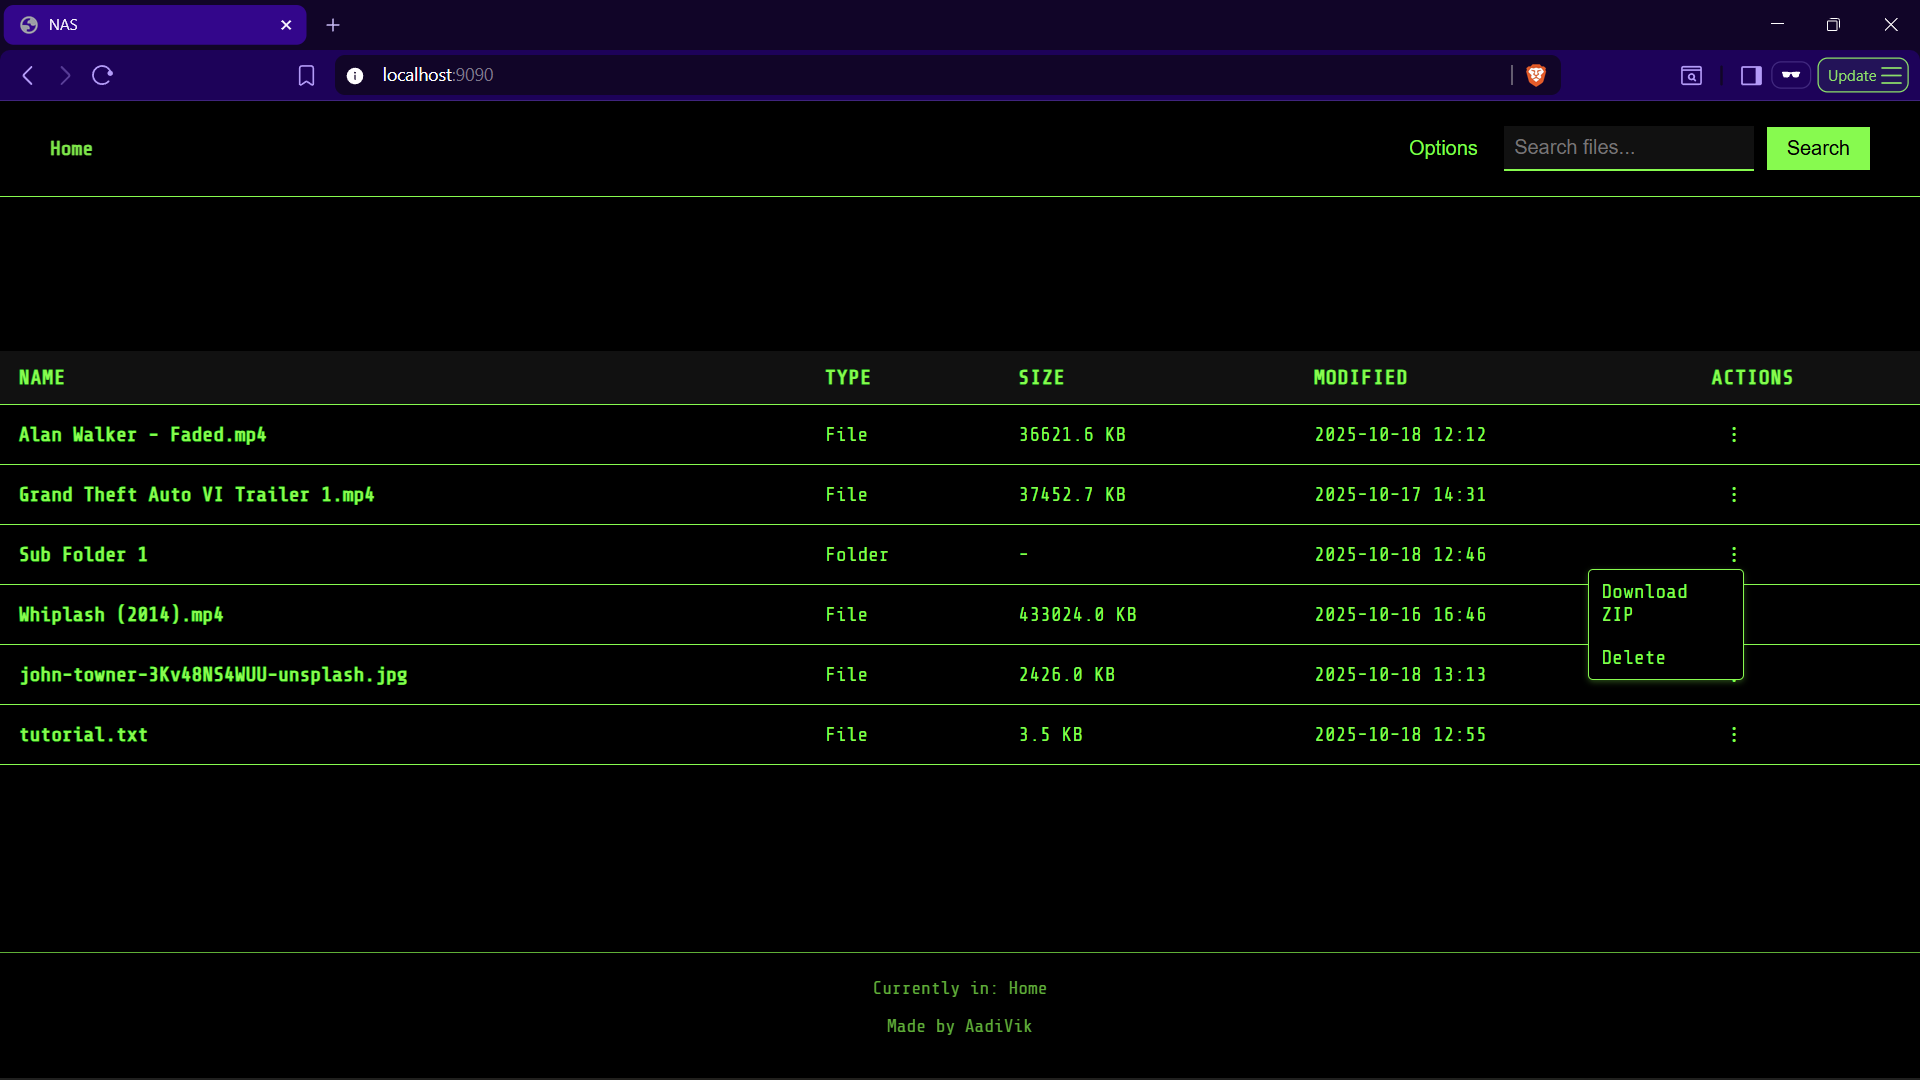
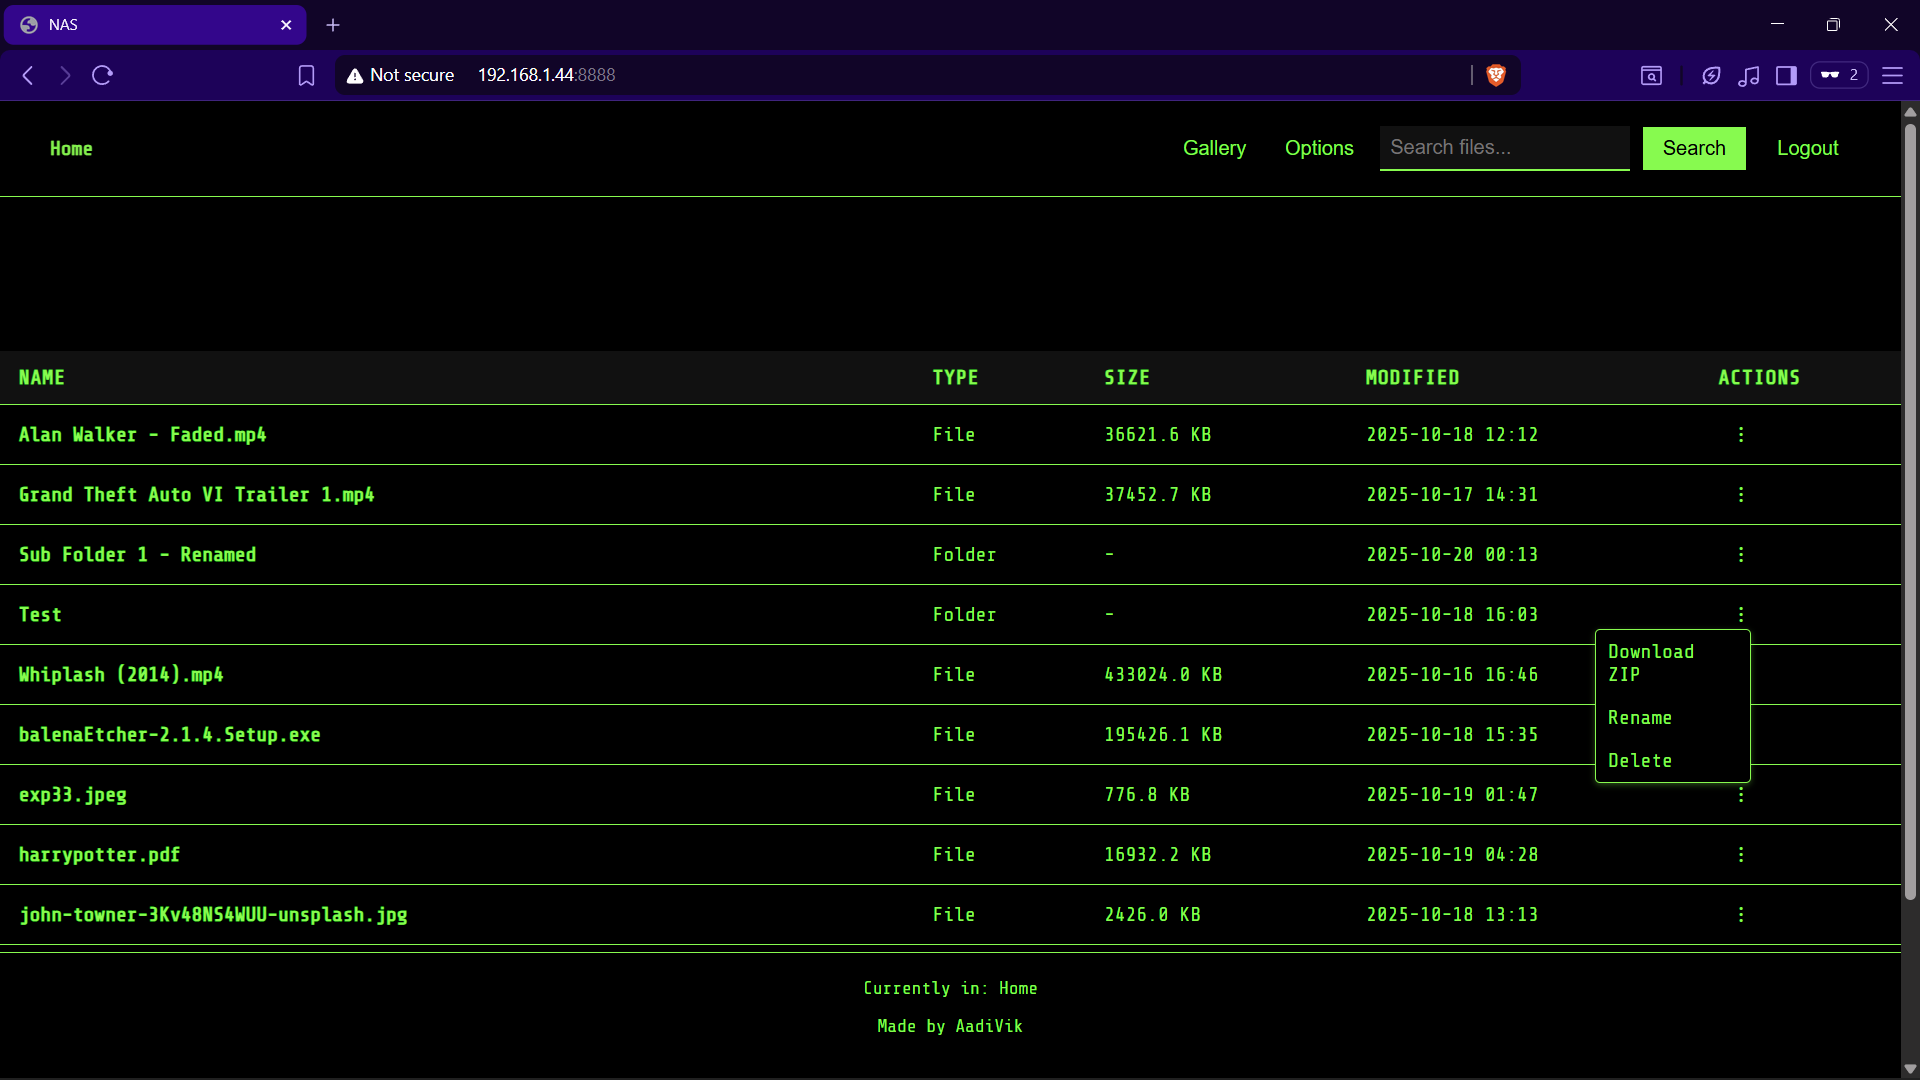
Updated README md file with rename info and removed not required info

diff --git a/README.md b/README.md
@@ -12,6 +12,7 @@ Network Attached Storage on a Python server running in Ubuntu
 - Progress bar on upload file
 - Download and delete file
 - Download folder as zip and delete
+- Rename file and folder
 - Delete file and folder
 - View file details
 - Preview Files with navigation and thumbnail preview for images and videos
@@ -21,47 +22,31 @@ Network Attached Storage on a Python server running in Ubuntu
 
 ## Steps
 
-### Only initial setup and first access method is needed
-
 - Initial setup on Ubuntu
   - Create a directory /nas/storage/files on Ubuntu
   - This will serve as root directory for the NAS
   - Give permission to current user to read and write from it with command sudo chmod 0755 /nas/storage/files
-  - Transfer server.py, template.html, style.css and main.js to the above directory
+  - Transfer app.py, server.py, template.html, style.css and main.js to the above directory
 
-- To access server on Windows through GUI (easy method)
-  - Run python3 app.py on Ubuntu
+- To access server on Windows through login page
+  - Run python3 /nas/storage/files/app.py on Ubuntu
   - Open http://<ubuntu_ip>:5000 in browser to open Launcher
   - Enter credentials and wait for http://<ubuntu_ip>:8888 to open
   - Now the app is running on server and can be accessed from any device on same Wi-Fi at http://<ubuntu_ip>:8888
-  - python3 app.py can be quit
+  - To logout and kill process, click on Logout button. It will redirect to login page and kill process on 8888
+  - app.py should be running in a terminal window in Ubuntu always
+  - To get Ubuntu IP, in terminal type ip addr and search for wlan0. There will be an inet with IP in the form 192.168.x.x
 
-### Rest of the methods of access are not needed
+- To access server without login
+  - Run python3 /nas/storage/files/server.py
+  - Open http://<ubuntu_ip>:8888 in browser to access the server without entering credentials
+  - server.py should be running in a terminal window in Ubuntu always
+  - To kill process in Ubuntu
+    - sudo netstat | -tulnp grep 8888 to get process ID
+    - sudo kill -9 <process_id>
+  - To get Ubuntu IP, in terminal type ip addr and search for wlan0. There will be an inet with IP in the form 192.168.x.x
 
-- To access server on any device on same Wi-Fi after access is established on above system
-  - Get IPV4 of above system. If it is Windows, type ipconfig in terminal
-  - Let it be device_ip
-  - In browser, http://<device_ip>:8888
-
-- To access server on Windows through terminal
-  - Open 1st terminal window and run ssh <ubuntu_user>@<ubuntu_ip>, then run python3 /nas/storage/files/server.py
-  - Open 2nd terminal window and run ssh -L 8888:localhost:8888 <ubuntu_user>@<ubuntu_ip> to create a tunnel to the running server
-  - Or just run access_nas.bat file and skip above 2 steps
-  - Go to browser and enter http://localhost:8888
-  - After closing server that was started using the bat file, it is needed to kill the python process
-  - Find PID of the process by running sudo netstat -tulnp | grep :8888
-  - sudo kill -9 pid
-  - Process is automatically killed if server is started manually by running server.py
-
-- To access server on Android through terminal
-  - Install Termux from Play Store
-  - Run command, pkg install socat
-  - Open 1st terminal window and run ssh <ubuntu_user>@<ubuntu_ip>, then run python3 /nas/storage/files/server.py
-  - Open 2nd terminal window and run ssh -L 8888:localhost:8888 <ubuntu_user>@<ubuntu_ip> to create a tunnel to the running server
-  - Open 3rd terminal window and run socat TCP-LISTEN:8888,bind=<android_ip>,fork TCP:127.0.0.1:8888
-  - Go to browser and enter http://<android_ip>:8888
-  - To find Android IP, go to Settings > Connections > Wi-Fi Name > Scroll down to find IP Address
-  - Type exit to close open terminals
+![Ubuntu_IP](assets/Ubuntu_IP.png)
 
 ## NAS Launcher
 
